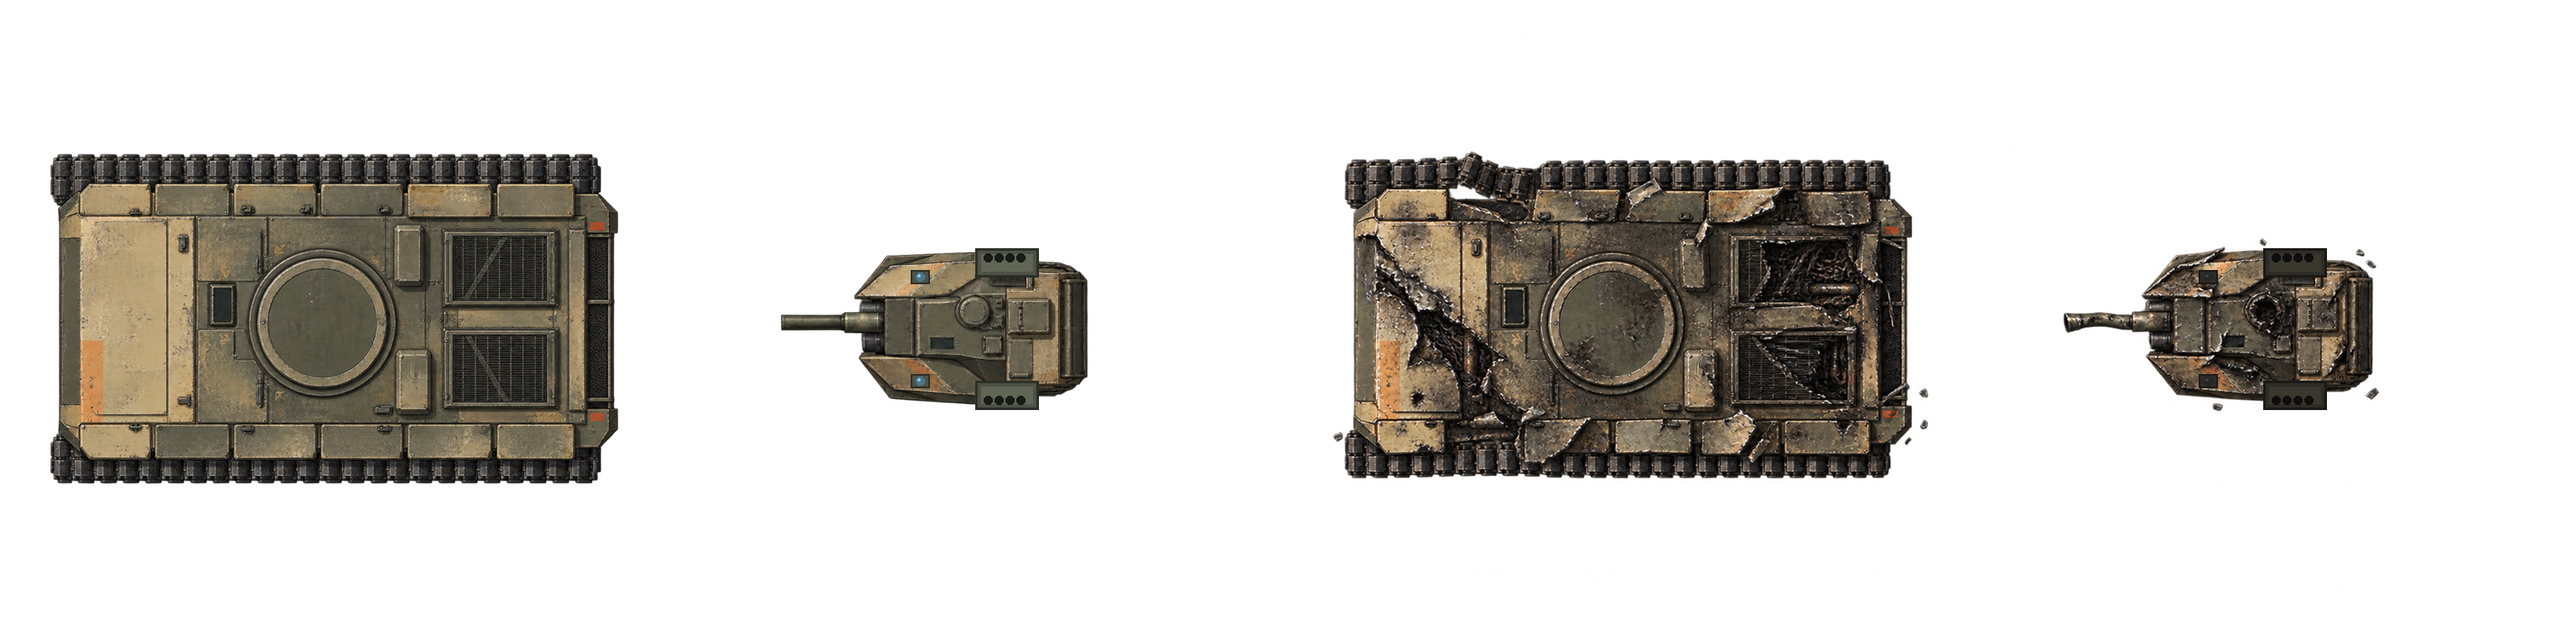
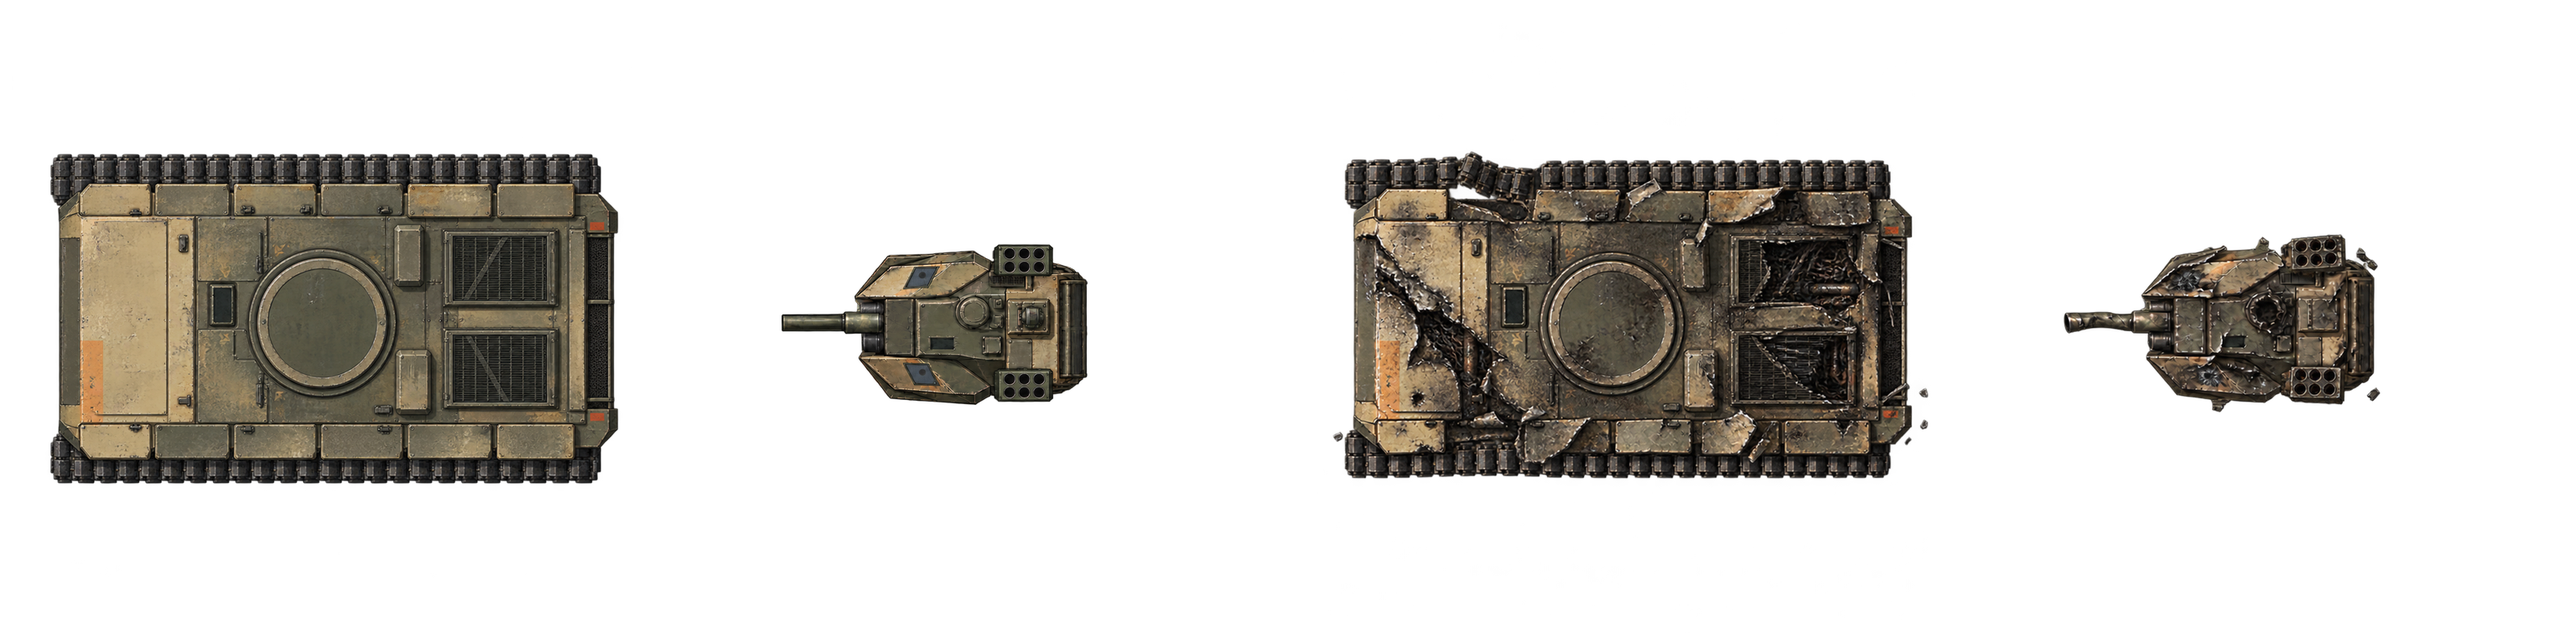
Screened tank: ImageGen turret with its interceptor fit replaces the stand-in sheet
Geometry-first, as the heavy-gun turret: guide.py blocks a 2x3 launcher box onto
each rear flank, a sensor panel onto each cheek and a mast head on the rear roof
of the breakthrough turret master; one Codex image_gen edit each for live and
wreck. The live raw came back 1.10x the target and is registered at 0.7/1.1
about (1495,457) (alpha IoU 0.988); its muzzle lands at 2.233 cells against the
shared mount's 2.243, so the mount is unchanged. Hulls stay the breakthrough's.
tank-variants snapshot suite now shows all four rungs.

Changed region(s): [[0.8125, 0.3438, 0.9375, 0.6562], [0.3125, 0.375, 0.4375, 0.6562]]

diff --git a/art-source/vehicles/tank-screened/pack.py b/art-source/vehicles/tank-screened/pack.py
@@ -1,67 +1,52 @@
 """Pack the screened tank sheet: mod/graphics/battle/vehicles/army-tank-screened.png.
 
-Four 768x768 frames facing LEFT, as every tank sheet: live hull, live turret, wreck hull, wreck turret.
+Four 768x768 frames: live hull, live turret, wreck hull, wreck turret, all facing LEFT.
 Hull frames are copied verbatim from the breakthrough sheet: the screened tank is that hull.
-Turret frames are the breakthrough turret with its interceptor fit drawn on, deterministically:
-a launcher box on each rear flank with its tube mouths, and a sensor plate at each front corner.
-The wreck turret gets the same fit, scorched. Stand-in art until an ImageGen pass on the
-geometry-first workflow (art-source/geometry-first-imagegen.md) replaces it.
-
-Run from the repository root: python art-source/vehicles/tank-screened/pack.py
+Turret frames come from the ImageGen raws (turret-only canvases in the breakthrough masters'
+coordinates, the interceptor fit painted over guide.py's blocks), then:
+  * alphaFloor: generator haze at or below this alpha is cleared;
+  * registration: the bearing lands on the frame center at the stated uniform scale
+    (Lanczos, premultiplied), exactly as art-source/vehicles/tank-heavy-gun/pack.py does.
+Run from anywhere: python art-source/vehicles/tank-screened/pack.py
 """
+import json
 from pathlib import Path
-from PIL import Image, ImageDraw
+from PIL import Image
 
-ROOT = Path(__file__).resolve().parents[3]
-SOURCE = ROOT / "mod/graphics/battle/vehicles/army-tank.png"
-OUTPUT = ROOT / "mod/graphics/battle/vehicles/army-tank-screened.png"
-SLOT = 768
-
-LIVE = {"plate": (78, 82, 70), "face": (96, 101, 86), "edge": (44, 47, 40), "mouth": (24, 26, 22),
-        "lens": (70, 120, 140), "glint": (150, 200, 215)}
-WRECK = {"plate": (46, 44, 38), "face": (58, 55, 47), "edge": (26, 25, 22), "mouth": (14, 14, 12),
-         "lens": (34, 40, 42), "glint": (60, 66, 66)}
+HERE = Path(__file__).resolve().parent
+OUT = HERE.parents[2] / "mod" / "graphics" / "battle" / "vehicles" / "army-tank-screened.png"
 
 
-def launcher(d, x0, y0, x1, y1, c, mouths_on_top):
-    """A launcher box seen from above: plate, a lighter top face, and two rows of tube mouths at its outer edge."""
-    d.rectangle((x0, y0, x1, y1), fill=c["edge"])
-    d.rectangle((x0 + 3, y0 + 3, x1 - 3, y1 - 3), fill=c["plate"])
-    d.rectangle((x0 + 7, y0 + 7, x1 - 7, y1 - 7), fill=c["face"])
-    row_y = y0 + 6 if mouths_on_top else y1 - 16
-    for i in range(4):
-        cx = x0 + 10 + i * ((x1 - x0 - 20) // 4)
-        d.ellipse((cx, row_y, cx + 10, row_y + 10), fill=c["mouth"])
-
-
-def sensor(d, x, y, c):
-    """A flat sensor plate with its lens."""
-    d.rectangle((x, y, x + 22, y + 16), fill=c["edge"])
-    d.rectangle((x + 2, y + 2, x + 20, y + 14), fill=c["plate"])
-    d.ellipse((x + 6, y + 3, x + 16, y + 13), fill=c["lens"])
-    d.ellipse((x + 8, y + 5, x + 11, y + 8), fill=c["glint"])
-
-
-def fit(frame, c):
-    out = frame.copy()
-    d = ImageDraw.Draw(out)
-    launcher(d, 395, 296, 470, 330, c, mouths_on_top=True)
-    launcher(d, 395, 454, 470, 488, c, mouths_on_top=False)
-    sensor(d, 318, 322, c)
-    sensor(d, 318, 446, c)
-    return out
+def register(img, scale, center, frame):
+    half = frame / 2 / scale
+    pad = int(half) + 8  # the frame reaches past the master's edges; pad with transparency
+    padded = Image.new("RGBA", (img.width + 2 * pad, img.height + 2 * pad), (0, 0, 0, 0))
+    padded.paste(img, (pad, pad))
+    cx, cy = center[0] + pad, center[1] + pad
+    box = (cx - half, cy - half, cx + half, cy + half)
+    return padded.convert("RGBa").resize((frame, frame), Image.LANCZOS, box=box).convert("RGBA")
 
 
 def main():
-    sheet = Image.open(SOURCE).convert("RGBA")
-    frames = [sheet.crop((i * SLOT, 0, (i + 1) * SLOT, SLOT)) for i in range(4)]
-    frames[1] = fit(frames[1], LIVE)
-    frames[3] = fit(frames[3], WRECK)
-    out = Image.new("RGBA", (SLOT * 4, SLOT), (0, 0, 0, 0))
-    for i, frame in enumerate(frames):
-        out.paste(frame, (i * SLOT, 0))
-    out.save(OUTPUT)
-    print("wrote", OUTPUT.relative_to(ROOT))
+    reg = json.loads((HERE / "registration.json").read_text())
+    w, h = reg["outputSize"]
+    frame = w // len(reg["frames"])
+    sheet = Image.new("RGBA", (w, h), (0, 0, 0, 0))
+    for i, f in enumerate(reg["frames"]):
+        if "copy" in f:
+            src = Image.open((HERE / f["copy"]).resolve()).convert("RGBA")
+            tile = src.crop((f["frame"] * frame, 0, (f["frame"] + 1) * frame, h))
+        else:
+            src = Image.open(HERE / f["source"]).convert("RGBA")
+            if list(src.size) != f["sourceSize"]:
+                raise SystemExit(f"Re-measure registration when replacing {f['source']}")
+            floor = f.get("alphaFloor", 0)
+            src.putalpha(src.getchannel("A").point(lambda v: 0 if v <= floor else v))
+            tile = register(src, f["scale"], f["sourceCenter"], frame)
+            assert f["targetCenter"] == [i * frame + frame // 2, h // 2]
+        sheet.paste(tile, (i * frame, 0))
+    sheet.save(OUT)
+    print(f"wrote {OUT}")
 
 
 if __name__ == "__main__":

diff --git a/src/test/java/com/dillon/starsectormarines/ops/TankVariantsSnapshotSuite.java b/src/test/java/com/dillon/starsectormarines/ops/TankVariantsSnapshotSuite.java
@@ -34,14 +34,14 @@ import java.util.List;
 import java.util.Set;
 
 /**
- * The breakthrough hull and its two variants side by side, live and wrecked, then the
- * same three in a short gun-range fight. Art review: the heavy gun and the dozer must
- * read as different tanks at game scale, and their guns must leave from the drawn muzzle.
+ * The breakthrough hull and its variants side by side, live and wrecked, then the same
+ * line in a short gun-range fight. Art review: the heavy gun, the screened tank's interceptor
+ * fit and the dozer must read as different tanks at game scale, and their guns must leave from the drawn muzzle.
  */
 public final class TankVariantsSnapshotSuite implements SnapshotSuite {
     private static final List<VehicleType> LINE = List.of(
-            VehicleType.BREAKTHROUGH_TANK, VehicleType.HEAVY_GUN_TANK, VehicleType.DOZER_BREACHER);
-    private static final List<String> NAMES = List.of("BREAKTHROUGH TANK", "HEAVY-GUN TANK", "DOZER BREACHER");
+            VehicleType.BREAKTHROUGH_TANK, VehicleType.HEAVY_GUN_TANK, VehicleType.SCREENED_TANK, VehicleType.DOZER_BREACHER);
+    private static final List<String> NAMES = List.of("BREAKTHROUGH TANK", "HEAVY-GUN TANK", "SCREENED TANK", "DOZER BREACHER");
 
     @Override public String id() { return "tank-variants"; }
     @Override public String label() { return "Tank variants side by side, wrecks and a battle frame"; }
@@ -62,7 +62,7 @@ public final class TankVariantsSnapshotSuite implements SnapshotSuite {
             List<Long> live = new ArrayList<>();
             List<Long> wrecks = new ArrayList<>();
             for (int i = 0; i < LINE.size(); i++) {
-                float x = 16 + i * 16;
+                float x = 13 + i * 13;
                 live.add(spawn(sim, LINE.get(i), Faction.MARINE, x, 26, 90, 90));
                 wrecks.add(spawn(sim, LINE.get(i), Faction.MARINE, x, 13, 90, 90));
                 labels.label(x, 21.5f, NAMES.get(i), ReviewStyle.NOTE);
@@ -77,9 +77,9 @@ public final class TankVariantsSnapshotSuite implements SnapshotSuite {
             sim.convoy().body(dummy).teleport(60, 37, 90);
 
             BattleReviewFrameRenderer renderer = new BattleReviewFrameRenderer(
-                    context.modRoot(), 1920, 1080, 32, 19.5f, 46);
+                    context.modRoot(), 1920, 1080, 32.5f, 19.5f, 52);
             artifacts.add(new SnapshotArtifact("lineup.png", renderer.render(sim,
-                    "Tank variants | breakthrough, heavy gun, dozer / live and wrecked / crosses mark the ballistic muzzle"
+                    "Tank variants | breakthrough, heavy gun, screened, dozer / live and wrecked / crosses mark the ballistic muzzle"
                             + " | 1920 x 1080, UI 100%", labels.build())));
             artifacts.add(new SnapshotArtifact("lineup-battle-scale.png", renderer.refocus(32, 19.5f, 60).render(sim,
                     "Tank variants | battle-scale camera, 60 cells across | 1920 x 1080, UI 100%", labels.build())));
@@ -152,7 +152,7 @@ public final class TankVariantsSnapshotSuite implements SnapshotSuite {
                 }
                 BufferedImage frame = renderer.render(sim,
                         "Tank variants in battle | THUNDER RUN staging apron, seed 9301 | breakthrough, heavy gun,"
-                                + " dozer against unarmed hulls | autonomous fire | 1920 x 1080, UI 100%",
+                                + " screened, dozer against unarmed hulls | autonomous fire | 1920 x 1080, UI 100%",
                         labels.build(), impacts);
                 frames.add(frame);
                 int inFlight = sim.getActiveShots().size();

diff --git a/art-source/vehicles/tank-screened/guide.py b/art-source/vehicles/tank-screened/guide.py
@@ -1,0 +1,77 @@
+"""Deterministic edit targets and geometry guides for the screened (active-protection) turret.
+
+Writes, beside this script:
+  turret-target.png  art-source/vehicles/tank/turret-master.png with the hull erased (turret alone, same canvas/pose)
+  turret-guide.png   that target with the interceptor fit blocked in as flat shapes
+  wreck-target.png   wreck-master.png with the wreck hull erased
+  wreck-guide.png    that target with the same fit blocked in, the upper launcher knocked askew
+The fit: a launcher box on each rear flank, hanging slightly outboard, its top face a 2x3 grid of
+tube mouths; a flat sensor panel on each cheek wedge near the front corner; a small sensor mast
+at the rear roof. Coordinates are live master pixels (bearing (1498,454), 140.857 px/cell); the
+wreck maps them through its own bearing (1344,447) and 115.32 px/cell.
+"""
+from pathlib import Path
+from PIL import Image, ImageDraw
+
+HERE = Path(__file__).resolve().parent
+TANK = HERE.parent / "tank"
+LIVE_C, WRECK_C = (1498, 454), (1344, 447)
+S = 115.32 / 140.857
+
+
+def erase_left(img, x_end):
+    img = img.copy()
+    ImageDraw.Draw(img).rectangle((0, 0, x_end - 1, img.height), fill=(0, 0, 0, 0))
+    return img
+
+
+def fit(d, m, wreck=False):
+    """m maps a live-master point to this canvas."""
+    def box(x0, y0, x1, y1, fill):
+        a, b = m(x0, y0), m(x1, y1)
+        d.rectangle((min(a[0], b[0]), min(a[1], b[1]), max(a[0], b[0]), max(a[1], b[1])), fill=fill)
+
+    def disc(x, y, r, fill):
+        cx, cy = m(x, y)
+        rr = r * (S if wreck else 1)
+        d.ellipse((cx - rr, cy - rr, cx + rr, cy + rr), fill=fill)
+
+    housing, top, mouth, panel, lens = "#3c4237", "#5d6450", "#1b1d19", "#4a5560", "#5f8fa6"
+    # Launchers: rear flanks, overhanging the turret side. Upper one shifted when wrecked.
+    for sign, shift in ((-1, (6, -5) if wreck else (0, 0)), (1, (0, 0))):
+        y_in, y_out = 454 + sign * 84, 454 + sign * 130
+        sx, sy = shift
+        box(1548 + sx, y_in + sy, 1648 + sx, y_out + sy, housing)
+        box(1554 + sx, y_in + sign * 5 + sy, 1642 + sx, y_out - sign * 5 + sy, top)
+        for col in range(3):
+            for row in range(2):
+                disc(1570 + col * 28 + sx, y_in + sign * (12 + row * 22) + sy, 8, mouth)
+    # Sensor panels on each cheek, angled with the wedge front.
+    for sign in (-1, 1):
+        pts = [(1398, 454 + sign * 70), (1436, 454 + sign * 70), (1446, 454 + sign * 96), (1408, 454 + sign * 96)]
+        d.polygon([m(*p) for p in pts], fill=panel)
+        disc(1422, 454 + sign * 83, 6, lens)
+    # Rear-roof sensor mast (small round head on a plate).
+    box(1602, 446, 1622, 462, housing)
+    disc(1612, 454, 9, panel)
+
+
+def main():
+    live = Image.open(TANK / "turret-master.png").convert("RGBA")
+    target = erase_left(live, 1100)
+    target.save(HERE / "turret-target.png")
+    guide = target.copy()
+    fit(ImageDraw.Draw(guide), lambda x, y: (x, y))
+    guide.save(HERE / "turret-guide.png")
+
+    wreck = Image.open(TANK / "wreck-master.png").convert("RGBA")
+    wtarget = erase_left(wreck, 1000)
+    wtarget.save(HERE / "wreck-target.png")
+    wguide = wtarget.copy()
+    m = lambda x, y: (WRECK_C[0] + (x - LIVE_C[0]) * S, WRECK_C[1] + (y - LIVE_C[1]) * S)
+    fit(ImageDraw.Draw(wguide), m, wreck=True)
+    wguide.save(HERE / "wreck-guide.png")
+
+
+if __name__ == "__main__":
+    main()

diff --git a/src/main/java/com/dillon/starsectormarines/battle/vehicle/VehicleType.java b/src/main/java/com/dillon/starsectormarines/battle/vehicle/VehicleType.java
@@ -121,8 +121,9 @@ public enum VehicleType {
      * protection that takes top-attack rounds coming down on it ({@link #activeProtectionStructureId}), paid for in
      * a little speed for the launcher boxes and their power. The tank
      * line's answer to a missile mech, bought as its own rung rather than fitted to a stock tank; the stock tanks
-     * carry none. Its sheet is the breakthrough hull's with the launcher boxes and sensor plates drawn on
-     * the turret (art-source/vehicles/tank-screened, stand-in art).
+     * carry none. Its sheet is the breakthrough hull with an ImageGen turret carrying the
+     * fit: an interceptor launcher box on each rear flank and a sensor panel on each cheek
+     * (art-source/vehicles/tank-screened).
      */
     SCREENED_TANK("graphics/battle/vehicles/army-tank-screened.png", 0, 4, -90f,
             0, 4.3f, 3.9f, 2.9f, .95f, 3.0f, .8f, 3.0f,

diff --git a/roadmap/battle-render/design/snapshot-suites.md b/roadmap/battle-render/design/snapshot-suites.md
@@ -19,7 +19,7 @@ by name.
 |-------|----------|--------|
 | `apc` | Registered live/wreck APCs at four headings and both sizes, twin-MG muzzle rotation, distance-driven tire treads and compact destruction effects on Thunder Run beside the tank and freight; controlled 1920x1080/100% art/motion evidence, not mission acceptance | `build/snapshots/apc/` |
 | `tank` | Registered tracked hull and short single-cannon turret at four headings, full posed rotation with muzzle marks, real autonomous-fire recoil, the production Thunder Run staging column alongside APCs, a technical and freight haulers, controlled forward/brake/reverse tread motion, and registered destruction with roof/engine effects; 1920x1080/100% art evidence, not mission acceptance | `build/snapshots/tank/` |
-| `tank-variants` | The breakthrough tank, heavy-gun tank and dozer breacher side by side, live and wrecked, with each ballistic muzzle marked, at close and battle scale; then all three firing autonomously at a defended line (`battle.png` is the busiest frame, `battle.gif` the run). 1920x1080/100% art evidence, not balance | `build/snapshots/tank-variants/` |
+| `tank-variants` | The breakthrough tank, heavy-gun tank, screened tank and dozer breacher side by side, live and wrecked, with each ballistic muzzle marked, at close and battle scale; then all four firing autonomously at a defended line (`battle.png` is the busiest frame, `battle.gif` the run). 1920x1080/100% art evidence, not balance | `build/snapshots/tank-variants/` |
 | `freight-vehicles` | Technical with covered wheel wells and silhouette-first industrial hauler: live/wreck cardinal poses, registered swaps and distinct destruction effects on the production Thunder Run apron beside tank/APCs; 1920x1080/100% controlled art/effect evidence, not mission acceptance | `build/snapshots/freight-vehicles/` |
 | `shepherd-basin` | Three recovery-map visits at 1920×1080, authored night lighting, detailed grounded Shepherd and scrap, cargo/infantry access and clear construction plots across palettes and seeds; controlled player observation verifies lit hull surfaces and hidden hostiles, not full mission play or campaign settlement | `build/snapshots/shepherd-basin/` |
 | `ship-command-ui` | Production ship selector and contextual build tray at 1920×1080/100%, remote Move/Hold/Auto, physical turret construction, takeover handback and Cold Start's grounded power gate; controlled fixtures, not Working Passage or campaign ownership acceptance | `build/snapshots/ship-command-ui/` |

diff --git a/art-source/vehicles/tank-screened/README.md b/art-source/vehicles/tank-screened/README.md
@@ -1,0 +1,41 @@
+# Screened tank variant
+
+The breakthrough tank (`art-source/vehicles/tank/`) carrying active protection: a
+compact interceptor launcher box on each rear turret flank (2x3 tube mouths,
+hanging slightly outboard), a flat radar/sensor panel inset on each cheek wedge
+and a short sensor mast on the rear roof. Same hull, same housing and cannon,
+same paint and weathering. Output: `mod/graphics/battle/vehicles/army-tank-screened.png`,
+3072x768, four 768x768 frames (live hull, live turret, wreck hull, wreck turret),
+all facing LEFT, strict top-down.
+
+## Sources
+
+- `guide.py` writes the edit targets and geometry guides from the tank masters:
+  `turret-target.png` / `wreck-target.png` are the masters with the hull erased;
+  `turret-guide.png` / `wreck-guide.png` add the fit as flat blocks (the wreck's
+  upper launcher knocked askew).
+- `turret-raw.png` and `wreck-raw.png` are unmodified 1774x887 RGBA ImageGen
+  edits (one generation each, `tools/codex_imagegen.py`) made with
+  `turret-prompt.txt` / `wreck-prompt.txt`: target as identity/material
+  authority, guide as geometry authority. Provenance sits beside each.
+- `pack.py` + `registration.json` produce the sheet. Hull frames are copied
+  verbatim from `army-tank.png`.
+
+```
+python art-source/vehicles/tank-screened/guide.py   # targets and guides only
+python art-source/vehicles/tank-screened/pack.py
+```
+
+## Registration
+
+| Frame | Source bearing | Scale | Frame cells |
+|-------|----------------|-------|-------------|
+| live hull | as `army-tank.png` frame 0 | 0.73 | 4.3 |
+| live turret | (1495,457) in `turret-raw.png` | 0.636364 | 7.789194 |
+| wreck hull | as `army-tank.png` frame 2 | 0.835 | 4.3 |
+| wreck turret | (1344,447) in `wreck-raw.png` | 0.855 | 7.789194 |
+
+The live edit came back 1.10x the target about (1495,457) (alpha IoU 0.988
+outside the launchers), so its scale is 0.7 / 1.1. Its muzzle is source
+(1149,458): 2.233 cells forward, ~0.01 cells lateral, against the breakthrough
+mount's 2.2434501 — the shared `TANK_CANNON` mount needs no change.

diff --git a/roadmap/progression/design/heavy-equipment-progression.md b/roadmap/progression/design/heavy-equipment-progression.md
@@ -643,9 +643,9 @@ being a tank-only gap.
   street rows do not move, because its SRMs fly flat. The bastion fit stays high
   on its arms (bastion alone 0.79): that is the reach-34 arm's case above, not
   the rack's. Against other tanks the screened tank duels as the breakthrough
-  tank does. Its sheet is stand-in art (launcher boxes and sensor plates drawn on
-  the breakthrough turret, `art-source/vehicles/tank-screened`) until an
-  ImageGen pass.
+  tank does. Its sheet is the breakthrough hull with an ImageGen turret carrying the
+  fit where it can be seen: a launcher box on each rear flank, a sensor panel
+  on each cheek (`art-source/vehicles/tank-screened`).
 - **Why top-attack only.** The first prototype took any interceptable round
   near the hull, and it taxed the SRM Bulwarks harder than the LRM fit. At the
   same 30-round setting the stock Bulwark fell 0.23 to 0.08 (street 0.50 to
